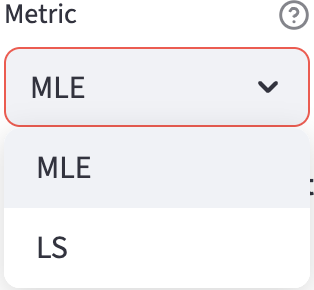
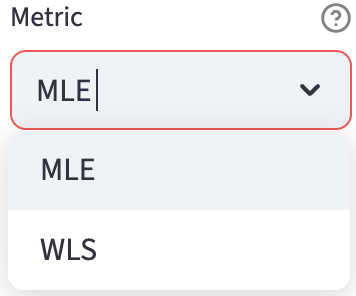
Built site for gh-pages

diff --git a/numerical_feature_extraction.html b/numerical_feature_extraction.html
@@ -676,7 +676,7 @@ I(\mathbf{t})=\sum_{i=1}^{n} A_i\, e^{-\mathbf{t}/\tau_i}, \qquad \tau_i&gt;0
 = -\sum_{n=0}^{N-1} \mathbf{1}_{[t_s,t_e]}(t_n)\,\bigl[y_n \log \hat{y}(t_n) - \hat{y}(t_n)\bigr].
 \]</span></p>
 <p><span class="math inline">\(\mathbf{1}_{[t_s,t_e]}\)</span> is the indicator function that is 1 if <span class="math inline">\(t_n\)</span> is within the <a href="#time-gates">time gates</a> <span class="math inline">\([t_s, t_e]\)</span>, and 0 otherwise. <span class="math inline">\(y_n\)</span> is the observed count at time <span class="math inline">\(t_n\)</span>, and <span class="math inline">\(\hat{y}(t_n)\)</span> is the model prediction at <span class="math inline">\(t_n\)</span>.</p>
-<p>Least Squares (<code>LS</code>) estimates the parameters using <em>weighted</em> least squares: it minimizes the squared residuals between the measured curve and the model prediction, with each time bin weighted by the inverse of its expected variance. Because photon counts follow Poisson statistics (variance <span class="math inline">\(\approx\)</span> count), each residual is scaled by <span class="math inline">\(1/\sqrt{\max(y_n, 1)}\)</span>, so the cost minimized is</p>
+<p>Weighted Least Squares (<code>WLS</code>) minimizes the squared residuals between the measured curve and the model prediction, with each time bin weighted by the inverse of its expected variance. Because photon counts follow Poisson statistics (variance <span class="math inline">\(\approx\)</span> count), each residual is scaled by <span class="math inline">\(1/\sqrt{\max(y_n, 1)}\)</span>, so the cost minimized is</p>
 <p><span class="math display">\[
 \text{WLS}(\theta; t_s,t_e)
 = \sum_{n=0}^{N-1} \mathbf{1}_{[t_s,t_e]}(t_n)\,\frac{\bigl(y_n - \hat{y}(t_n)\bigr)^2}{\max(y_n, 1)}.
@@ -692,8 +692,7 @@ I(\mathbf{t})=\sum_{i=1}^{n} A_i\, e^{-\mathbf{t}/\tau_i}, \qquad \tau_i&gt;0
 </div>
 <p><strong>Fit calibration</strong> (IRF shift) always runs <strong>Hybrid</strong> optimization to ensure accuracy. For <strong>Lifetime fit</strong> cell-level extraction after calibration, the fitting mode selects the optimization strategy. It is a trade-off between speed and the effort to avoid local minima.</p>
 <ul>
-<li><code>Local</code>: It uses the <code>leastsq</code> (least squares with Levenberg-Marquardt) algorithm if the chosen metric is <code>LS</code>, otherwise it uses the <code>nelder</code> (Nelder-Mead) algorithm.<br>
-</li>
+<li><code>Local</code>: It uses the <code>leastsq</code> (least squares with Levenberg-Marquardt) algorithm if the chosen metric is <code>WLS</code>, otherwise it uses the <code>nelder</code> (Nelder-Mead) algorithm.</li>
 <li><code>Hybrid</code>: The slower but more accurate option that combines the <code>differential evolution</code> algorithm to obtain a good initial guess for all parameters, followed by the <code>Local</code> optimizer to refine the solution.</li>
 </ul>
 </section>